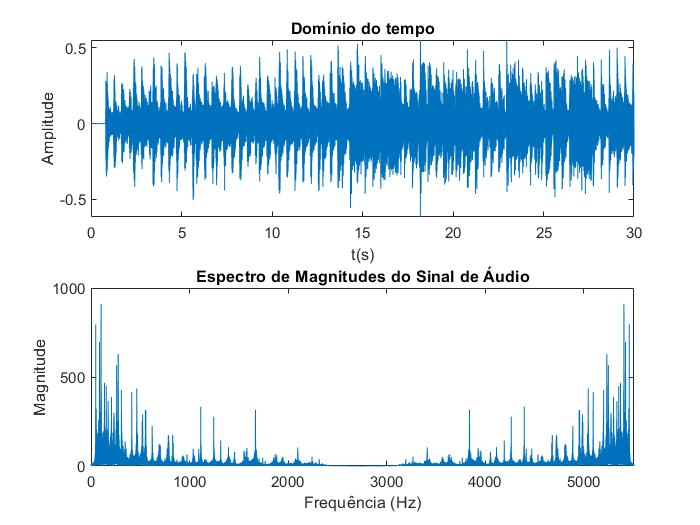
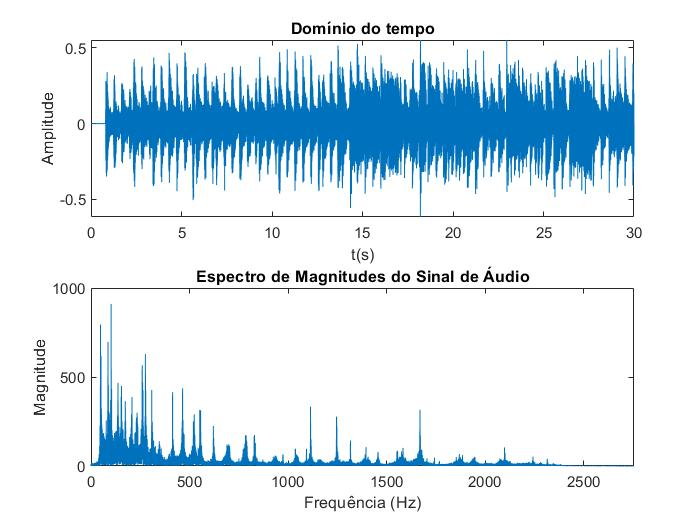
atualizando

Changed region(s): [[0.12, 0.6095, 0.9, 0.9448], [0.66, 0.9143, 0.69, 0.9448]]

diff --git a/Trabalho Final/Item b/item_b_juntos.m b/Trabalho Final/Item b/item_b_juntos.m
@@ -48,4 +48,5 @@ ylabel('Magnitude');
 legend('Sinal Original', 'Sinal Decimado');
 xlim([0, Fs/16]);
 
+soundsc(y, Fs)
 soundsc(y_decimado, Fs/8)

diff --git a/Trabalho Final/Item b/teste.m b/Trabalho Final/Item b/teste.m
@@ -1,0 +1,6 @@
+load train
+soundsc(y,Fs)
+Fs
+figure
+z = fft(y); w = ((1:length(y))-1)*Fs/length(y);
+plot(w,abs(z))
